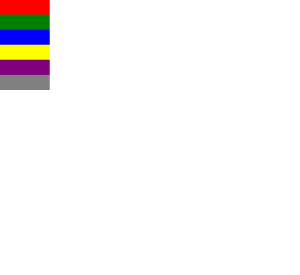
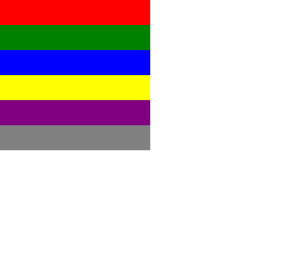
Update latihan_1.css & screenshots

Changed region(s): [[0.0, 0.0, 0.51, 0.5527]]

diff --git a/10_Frontend Fundamental/praktikum/latihan_1.css b/10_Frontend Fundamental/praktikum/latihan_1.css
@@ -11,25 +11,25 @@ body {
 }
 
 .content {
-  width: 100px;
-  height: 30px;
+  width: 300px;
+  height: 50px;
 }
 
 @media screen and (max-width: 599px) {
   .container {
-    width: 100px;
+    width: 300px;
   }
 }
 
 @media (min-width: 600px) and (max-width: 959px) {
   .container {
-    width: 200px;
+    width: 600px;
   }
 }
 
 @media screen and (min-width: 960px) {
   .container {
-    width: 300px;
+    width: 900px;
   }
 }
 
